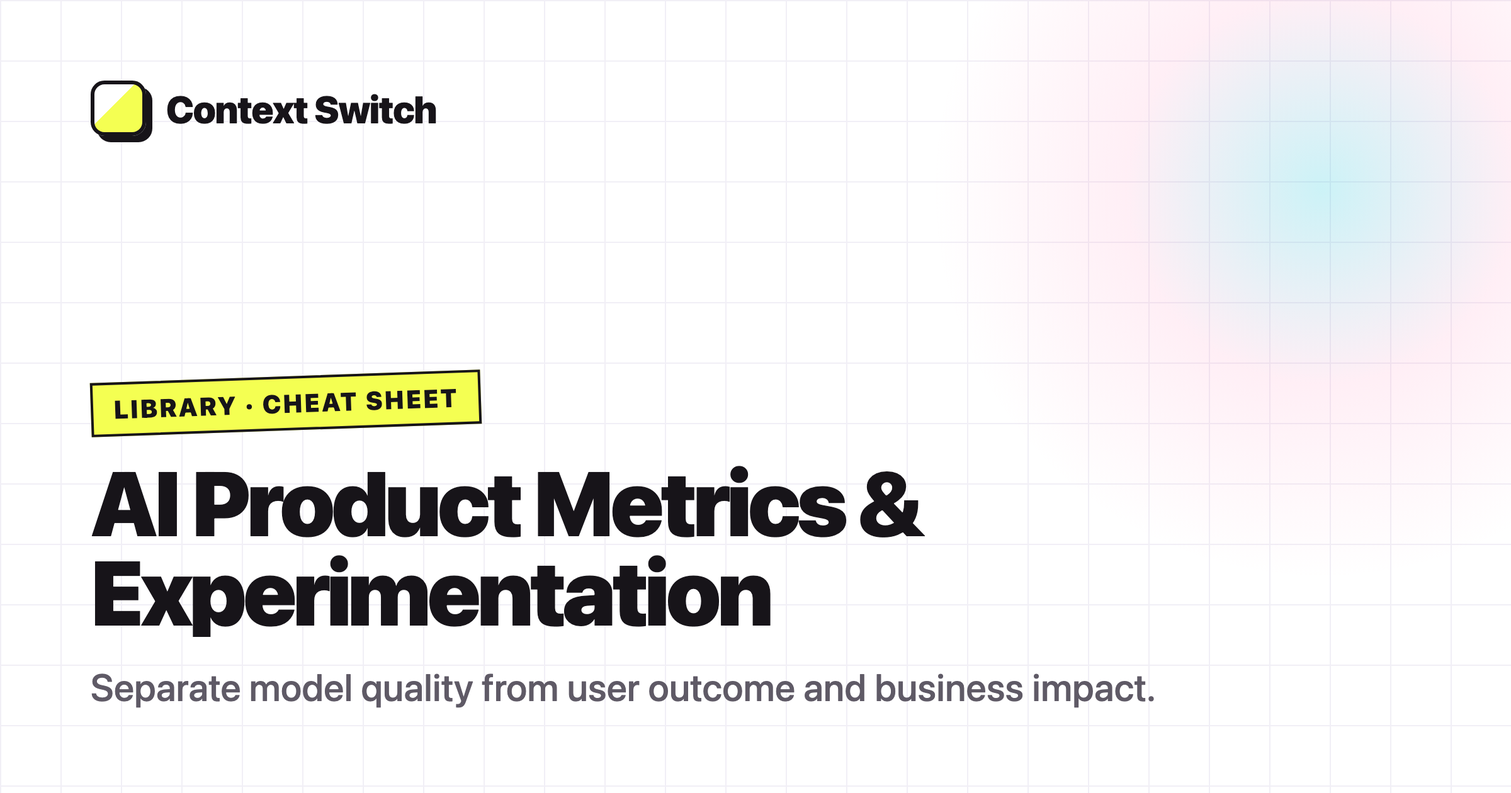
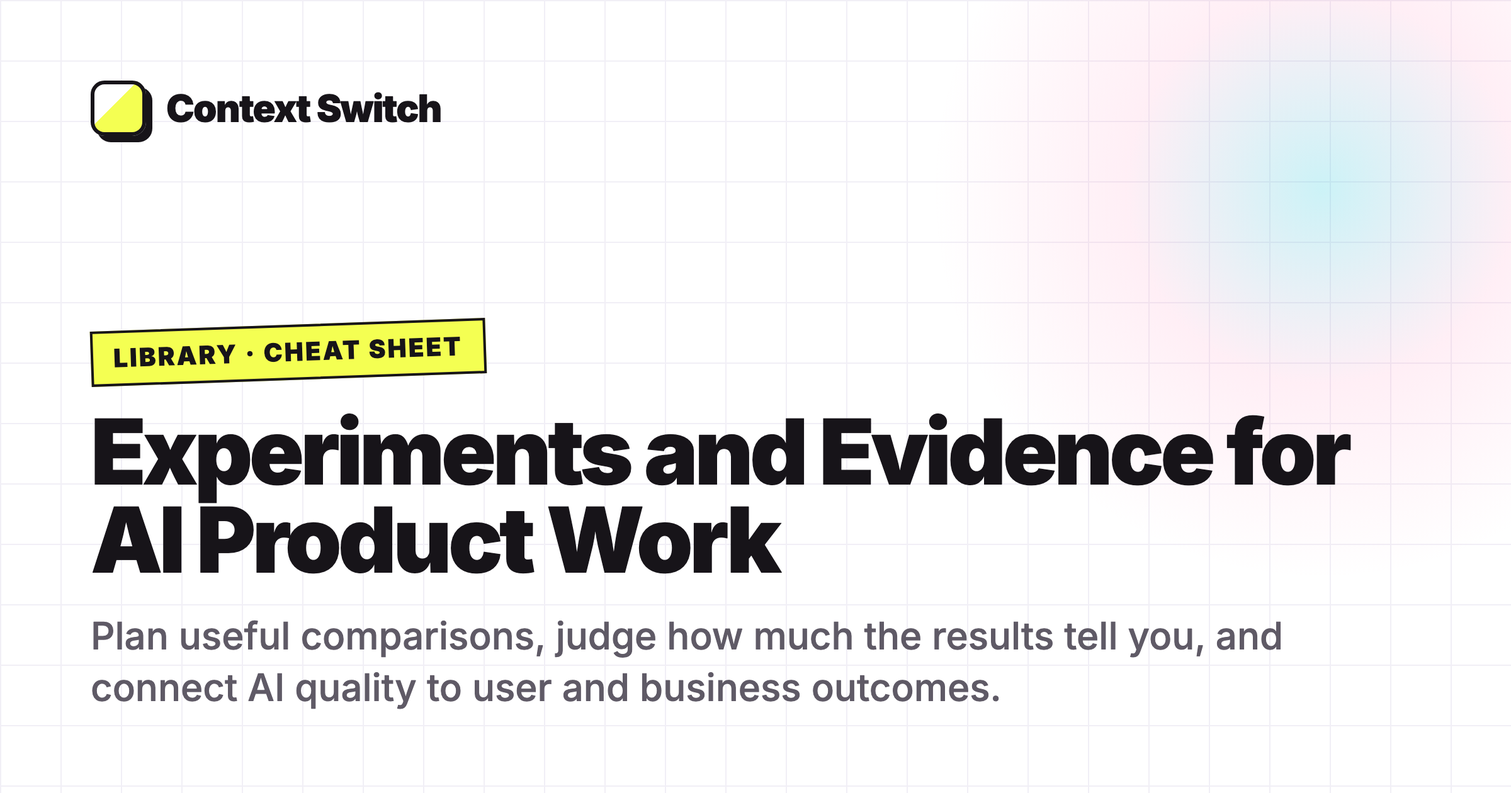
Library: Experiments and Evidence overview for section 08
Rewrite the metrics/experimentation reference as a six-question overview
(learn, measure, compare, interpret, AI evals, decide) with compact tables,
keeping the business case and quality x value matrix under a collapsed
Going deeper area. Section 08 topic line and label updated; AI Product Evals
links to the AI evals section; stale link titles fixed in the playbook and
Durable Knowledge. Same URL.

Changed region(s): [[0.0625, 0.4024, 0.9062, 0.8976], [0.125, 0.1238, 0.3125, 0.1548]]

diff --git a/cheat-sheets/ai-product-metrics-experimentation.html b/cheat-sheets/ai-product-metrics-experimentation.html
@@ -1,32 +1,66 @@
 <!DOCTYPE html>
-<html lang="en"><head><meta charset="utf-8"/><meta content="width=device-width,initial-scale=1" name="viewport"/><title>AI Product Metrics &amp; Experimentation · Context Switch</title><style>
+<html lang="en"><head><meta charset="utf-8"/><meta content="width=device-width,initial-scale=1" name="viewport"/><title>Experiments and Evidence for AI Product Work · Context Switch</title><style>
 :root{--ink:#15111a;--muted:#5f5968;--line:#e8e7ef;--pink:#f0408f;--cyan:#00bfd6;--violet:#6b5cff;--acid:#f4ff52}*{box-sizing:border-box}body{margin:0;background:white;color:var(--ink);font:14px/1.5 Inter,system-ui,Arial,sans-serif}.bar{border-bottom:1px solid var(--line);padding:18px max(26px,calc((100% - 1030px)/2));font-weight:900;font-size:17px;letter-spacing:-.03em}.bar i{display:inline-block;width:17px;height:17px;background:var(--acid);border:2px solid var(--ink);margin-right:10px;vertical-align:-3px;box-shadow:3px 3px var(--ink)}main{max-width:1030px;margin:auto;padding:25px 30px 45px}.tools{display:flex;justify-content:space-between;align-items:center;margin-bottom:27px;font-size:12px;font-weight:750}.tools a{color:inherit}.tools button{background:white;border:1px solid var(--ink);box-shadow:3px 3px 0 var(--acid);padding:9px 12px;font-weight:750;cursor:pointer}.label{display:inline-block;background:var(--acid);font-weight:900;font-size:10px;text-transform:uppercase;letter-spacing:.08em;padding:5px 10px;transform:rotate(-2deg);margin-bottom:12px}h1{font-size:clamp(37px,5.8vw,63px);letter-spacing:-.042em;line-height:1.08;margin:0 0 12px;font-weight:950}.pink{color:var(--pink)}.purple{color:var(--violet)}.intro{color:var(--muted);font-size:17px;max-width:740px}.hero{border-bottom:2px solid var(--ink);padding-bottom:16px}.lead{border-left:4px solid var(--violet);background:#f8f7ff;padding:11px 14px;margin:15px 0}section{margin-top:25px;padding-top:24px;border-top:1px solid var(--line)}section.first{border:0;margin-top:0;padding-top:12px}.kicker{font-size:10px;font-weight:900;letter-spacing:.1em;color:var(--muted);text-transform:uppercase;margin:0 0 6px}h2{font-size:24px;line-height:1.18;letter-spacing:-.045em;margin:0 0 11px;font-weight:900}.flow{max-width:750px}.step{display:flex;gap:13px;padding:12px 14px;border:1px solid var(--line);border-left:4px solid var(--violet)}.step:nth-of-type(4n+1){border-left-color:var(--pink)}.number{display:grid;place-items:center;background:var(--acid);font-weight:900;width:27px;height:27px;flex:0 0 27px}.step strong{display:block}.step small{color:var(--muted);font-size:13px;display:block;margin-top:3px}.arrow{height:14px;border-left:2px solid var(--ink);margin-left:28px}.note{border-left:4px solid var(--cyan);background:#f6fcff;padding:11px 14px;margin:15px 0}.table-wrap{overflow-x:auto}table{border-collapse:collapse;width:100%;font-size:13px}thead{border-top:2px solid var(--ink);background:#f8f7ff}td,th{padding:10px 12px;border-bottom:1px solid var(--line);text-align:left;vertical-align:top}th{font-size:10px;letter-spacing:.07em;text-transform:uppercase}td:first-child{font-weight:850;white-space:nowrap}tr:nth-child(even){background:#fcfcff}.twocol{display:grid;grid-template-columns:1fr 1fr;gap:13px}.twocol article{border:1px solid var(--line);border-top:4px solid var(--pink);padding:13px}.twocol article+article{border-top-color:var(--cyan)}.twocol strong{display:block;margin-bottom:4px}footer{margin-top:23px;border-top:2px solid var(--ink);padding-top:11px;color:var(--muted);font-size:12px}footer a{font-weight:700;color:inherit}p{margin:0 0 9px}@media(max-width:680px){main{padding:20px}.bar{padding:14px 20px}h1{font-size:clamp(34px,9vw,51px)}.twocol{grid-template-columns:1fr}}
 @media print{@page{size:letter;margin:.44in .52in}html,body{font-size:9.3pt;line-height:1.31;-webkit-print-color-adjust:exact;print-color-adjust:exact}.bar,.tools{display:none!important}main{padding:0;max-width:100%;margin:0}.hero{padding:0 0 10px}h1{font-size:27pt;line-height:1.08;margin-bottom:6px}.intro{font-size:10pt}.label{font-size:8pt;padding:3px 6px;margin-bottom:6px;transform:none}.lead{margin:8px 0;padding:7px 10px}section{margin-top:11px;padding-top:10px}section.first{padding-top:6px}h2{font-size:14pt;margin-bottom:7px}.kicker{margin-bottom:3px}.step{padding:6px 9px;break-inside:avoid}.step small{font-size:8.6pt;margin-top:2px}.number{width:21px;height:21px;flex-basis:21px}.arrow{height:8px;margin-left:21px}.note{padding:7px 10px;margin:8px 0;break-inside:avoid}table{font-size:8.6pt;line-height:1.26}td,th{padding:5px 8px}thead{display:table-header-group}tr{break-inside:avoid}.evaluation{break-before:page;margin-top:0;padding-top:0;border-top:0}h2,.kicker{break-after:avoid}.table-wrap{overflow:visible}.twocol{gap:8px}.twocol article{padding:8px;break-inside:avoid}footer{margin-top:11px;padding-top:7px}p{orphans:2;widows:2}}
 
-.cards{display:grid;grid-template-columns:repeat(2,minmax(0,1fr));gap:12px}.card{border:1px solid var(--line);border-top:4px solid var(--violet);padding:12px 14px}.card:nth-child(3n+2){border-top-color:var(--pink)}.card:nth-child(3n){border-top-color:var(--cyan)}.card h3{font-size:14px;line-height:1.24;margin:0 0 5px}.card p{margin:0;font-size:13px}.chips{display:flex;gap:9px;flex-wrap:wrap}.chip{border:1px solid var(--line);padding:7px 10px;font-weight:800;font-size:12px}.list{padding-left:20px;margin:9px 0}.list li{margin:0 0 7px}.pair{display:grid;grid-template-columns:1fr 1fr;gap:14px}.pair>*{min-width:0}.flowbox{display:flex;gap:7px;align-items:stretch;flex-wrap:wrap}.flowbox span{background:#f8f7ff;border-left:3px solid var(--violet);padding:10px 12px;flex:1 1 115px;font-size:13px;font-weight:750}.source{font-size:11px;color:var(--muted)}@media(max-width:680px){.cards,.pair{grid-template-columns:1fr}}@media print{.cards,.pair{gap:7px}.card{padding:7px 9px;break-inside:avoid}.card h3{font-size:10pt}.card p{font-size:9pt}.list li{margin-bottom:4px}.flowbox span{padding:6px 9px;break-inside:avoid}.source{font-size:8pt}section{break-inside:auto}.hero{break-inside:avoid}.cards{grid-template-columns:repeat(2,minmax(0,1fr))}}</style><style id="restored-additions">@media(max-width:680px){td:first-child,.restored td:first-child{white-space:normal;min-width:0}td,th{padding-left:8px;padding-right:8px}}.label a{color:inherit;text-decoration:none}.reviewed{display:inline-block;margin-left:10px;font-size:11px;font-weight:750;color:var(--muted)}footer a{color:inherit;font-weight:750}.restored{break-inside:auto}.restored h3{font-size:15px;letter-spacing:-.018em;margin:18px 0 9px}.restored strong{font-weight:850}.restored .note{margin:11px 0}.restored td{overflow-wrap:anywhere}.restored td:first-child{white-space:normal;min-width:116px}.restored table{table-layout:auto}.restored thead{display:table-header-group}@media print{.restored{break-inside:auto;page-break-inside:auto}.restored h2,.restored h3,.restored .kicker{break-after:avoid;page-break-after:avoid}.restored .table-wrap{overflow:visible}.restored tr,.restored .note{break-inside:avoid;page-break-inside:avoid}.restored td,.restored th{padding:6px 8px}.restored .note{padding:8px 11px}.restored h3{margin:12px 0 7px;font-size:11pt}.restored{margin-top:19px;padding-top:16px}}</style><style id="decision-practice-additions">.decision-practice h2{margin-bottom:12px}.decision-practice p{max-width:870px}.decision-practice .table-wrap{overflow-x:auto}.decision-practice table{width:100%;border-collapse:collapse}.decision-practice td,.decision-practice th{white-space:normal!important;overflow-wrap:anywhere}.decision-practice td:first-child{min-width:0!important}.decision-practice .flowbox{margin-bottom:12px}@media print{.decision-practice{break-inside:auto}.decision-practice h2{break-after:avoid;page-break-after:avoid}.decision-practice tr,.decision-practice .card,.decision-practice .note{break-inside:avoid;page-break-inside:avoid}.decision-practice td,.decision-practice th{padding:5px 7px}.decision-practice .cards{grid-template-columns:repeat(2,minmax(0,1fr))}}</style><link href="../favicon.svg" rel="icon" type="image/svg+xml">
+.cards{display:grid;grid-template-columns:repeat(2,minmax(0,1fr));gap:12px}.card{border:1px solid var(--line);border-top:4px solid var(--violet);padding:12px 14px}.card:nth-child(3n+2){border-top-color:var(--pink)}.card:nth-child(3n){border-top-color:var(--cyan)}.card h3{font-size:14px;line-height:1.24;margin:0 0 5px}.card p{margin:0;font-size:13px}.chips{display:flex;gap:9px;flex-wrap:wrap}.chip{border:1px solid var(--line);padding:7px 10px;font-weight:800;font-size:12px}.list{padding-left:20px;margin:9px 0}.list li{margin:0 0 7px}.pair{display:grid;grid-template-columns:1fr 1fr;gap:14px}.pair>*{min-width:0}.flowbox{display:flex;gap:7px;align-items:stretch;flex-wrap:wrap}.flowbox span{background:#f8f7ff;border-left:3px solid var(--violet);padding:10px 12px;flex:1 1 115px;font-size:13px;font-weight:750}.source{font-size:11px;color:var(--muted)}@media(max-width:680px){.cards,.pair{grid-template-columns:1fr}}@media print{.cards,.pair{gap:7px}.card{padding:7px 9px;break-inside:avoid}.card h3{font-size:10pt}.card p{font-size:9pt}.list li{margin-bottom:4px}.flowbox span{padding:6px 9px;break-inside:avoid}.source{font-size:8pt}section{break-inside:auto}.hero{break-inside:avoid}.cards{grid-template-columns:repeat(2,minmax(0,1fr))}}</style><style id="restored-additions">@media(max-width:680px){td:first-child,.restored td:first-child{white-space:normal;min-width:0}td,th{padding-left:8px;padding-right:8px}}.label a{color:inherit;text-decoration:none}.reviewed{display:inline-block;margin-left:10px;font-size:11px;font-weight:750;color:var(--muted)}footer a{color:inherit;font-weight:750}.restored{break-inside:auto}.restored h3{font-size:15px;letter-spacing:-.018em;margin:18px 0 9px}.restored strong{font-weight:850}.restored .note{margin:11px 0}.restored td{overflow-wrap:anywhere}.restored td:first-child{white-space:normal;min-width:116px}.restored table{table-layout:auto}.restored thead{display:table-header-group}@media print{.restored{break-inside:auto;page-break-inside:auto}.restored h2,.restored h3,.restored .kicker{break-after:avoid;page-break-after:avoid}.restored .table-wrap{overflow:visible}.restored tr,.restored .note{break-inside:avoid;page-break-inside:avoid}.restored td,.restored th{padding:6px 8px}.restored .note{padding:8px 11px}.restored h3{margin:12px 0 7px;font-size:11pt}.restored{margin-top:19px;padding-top:16px}}</style><style id="decision-practice-additions">.decision-practice h2{margin-bottom:12px}.decision-practice p{max-width:870px}.decision-practice .table-wrap{overflow-x:auto}.decision-practice table{width:100%;border-collapse:collapse}.decision-practice td,.decision-practice th{white-space:normal!important;overflow-wrap:anywhere}.decision-practice td:first-child{min-width:0!important}.decision-practice .flowbox{margin-bottom:12px}@media print{.decision-practice{break-inside:auto}.decision-practice h2{break-after:avoid;page-break-after:avoid}.decision-practice tr,.decision-practice .card,.decision-practice .note{break-inside:avoid;page-break-inside:avoid}.decision-practice td,.decision-practice th{padding:5px 7px}.decision-practice .cards{grid-template-columns:repeat(2,minmax(0,1fr))}}</style><style id="experiments-overview">.jump{display:flex;flex-wrap:wrap;gap:7px;margin-top:16px}.jump a{border:1px solid var(--line);padding:6px 10px;font-weight:800;font-size:12px;color:inherit;text-decoration:none}.jump a:hover,.jump a:focus-visible{border-color:var(--ink)}main section[id]{scroll-margin-top:16px}section .note p{margin:0 0 6px}section .note p:last-child{margin:0}section>p{max-width:820px}.deeper details{border:1px solid var(--line);border-left:4px solid var(--violet);margin:0 0 10px}.deeper details:nth-of-type(2){border-left-color:var(--pink)}.deeper details:nth-of-type(3){border-left-color:var(--cyan)}.deeper summary{cursor:pointer;padding:12px 14px;font-weight:900;font-size:15px;letter-spacing:-.018em}.deeper summary:focus-visible{outline:2px solid var(--violet);outline-offset:2px}.deeper-body{padding:0 14px 12px}.deeper td{overflow-wrap:break-word!important}.deeper td:first-child{min-width:92px!important;white-space:normal}@media(max-width:680px){.deeper td:first-child{min-width:70px!important}}#further-reading a{color:inherit;font-weight:750}@media print{.jump{display:none}.deeper details{border:0;margin:0 0 8px}.deeper summary{padding:0 0 5px;font-size:11pt;list-style:none;break-after:avoid}.deeper summary::-webkit-details-marker{display:none}.deeper-body{padding:0}}</style><link href="../favicon.svg" rel="icon" type="image/svg+xml">
 <!-- social-preview:begin -->
-<meta content="Separate model quality from user outcome and business impact." name="description"/>
+<meta content="Plan useful comparisons, judge how much the results tell you, and connect AI quality to user and business outcomes." name="description"/>
 <meta content="website" property="og:type"/>
 <meta content="https://www.contextswitch.tech/cheat-sheets/ai-product-metrics-experimentation" property="og:url"/>
-<meta content="AI Product Metrics &amp; Experimentation · Context Switch" property="og:title"/>
-<meta content="Separate model quality from user outcome and business impact." property="og:description"/>
+<meta content="Experiments and Evidence for AI Product Work · Context Switch" property="og:title"/>
+<meta content="Plan useful comparisons, judge how much the results tell you, and connect AI quality to user and business outcomes." property="og:description"/>
 <meta content="https://www.contextswitch.tech/assets/social/cheat-sheets/ai-product-metrics-experimentation.png?v=2" property="og:image"/>
 <meta content="2400" property="og:image:width"/>
 <meta content="1260" property="og:image:height"/>
-<meta content="AI Product Metrics &amp; Experimentation · Context Switch" property="og:image:alt"/>
+<meta content="Experiments and Evidence for AI Product Work · Context Switch" property="og:image:alt"/>
 <meta content="summary_large_image" name="twitter:card"/>
-<meta content="AI Product Metrics &amp; Experimentation · Context Switch" name="twitter:title"/>
-<meta content="Separate model quality from user outcome and business impact." name="twitter:description"/>
+<meta content="Experiments and Evidence for AI Product Work · Context Switch" name="twitter:title"/>
+<meta content="Plan useful comparisons, judge how much the results tell you, and connect AI quality to user and business outcomes." name="twitter:description"/>
 <meta content="https://www.contextswitch.tech/assets/social/cheat-sheets/ai-product-metrics-experimentation.png?v=2" name="twitter:image"/>
-<meta content="AI Product Metrics &amp; Experimentation · Context Switch" name="twitter:image:alt"/>
+<meta content="Experiments and Evidence for AI Product Work · Context Switch" name="twitter:image:alt"/>
 <!-- social-preview:end -->
-</head><body><div class="bar"><i></i>Context Switch</div><main><div class="tools"><a href="../index.html#learn">← All references</a><button onclick="window.print()">Print / Save PDF</button></div><div class="hero"><div class="label"><a href="../index.html#learn">Library</a> / 08 Product Analytics, Measurement &amp; Business Value</div><span class="reviewed">Reviewed Oct 2026</span><h1>AI Product Metrics &amp; Experimentation</h1><p class="intro">Separate model quality from user outcome and business impact.</p></div><section class="first"><div class="kicker">01 / table</div><h2>Three levels of measurement</h2><div class="table-wrap"><table><thead><tr><th>Level</th><th>Question</th><th>Examples</th></tr></thead><tbody><tr><td>AI quality</td><td>Did the system behave correctly?</td><td>Task success, groundedness, severe failures</td></tr><tr><td>User outcome</td><td>Did it make the job easier?</td><td>Resolution time, correction effort, completion</td></tr><tr><td>Business outcome</td><td>Did it create net value?</td><td>Cost per resolved case, capacity, avoided rework</td></tr></tbody></table></div></section><section class=""><div class="kicker">02 / cards</div><h2>Metric distinctions</h2><div class="cards"><article class="card"><h3>Primary vs guardrail</h3><p>A main goal plus cost, latency, severe failures and review burden.</p></article><article class="card"><h3>Leading vs lagging</h3><p>Early use signals versus later outcomes.</p></article><article class="card"><h3>Rate vs count</h3><p>Always name the denominator and time window.</p></article><article class="card"><h3>Segments</h3><p>Task complexity, source coverage, risk and user group.</p></article></div></section><section class=""><div class="kicker">03 / table</div><h2>Evidence methods</h2><div class="table-wrap"><table><thead><tr><th>Method</th><th>Strength / caution</th></tr></thead><tbody><tr><td>A/B test</td><td>Randomized, but watch assignment and spillover</td></tr><tr><td>Holdout</td><td>Compare outcomes against a continuing baseline</td></tr><tr><td>Before / after</td><td>Useful, but confounded by seasonal and task shifts</td></tr><tr><td>Qualitative</td><td>Explains mechanisms; not causal proof alone</td></tr></tbody></table></div></section><section class=""><div class="kicker">04 / note</div><h2>Worked example</h2><div class="lead">90% acceptable support drafts do not prove value. Compare resolution, corrections, customer satisfaction, escalation and all-in cost to baseline.</div></section><section class=""><div class="kicker">05 / list</div><h2>Ask before claiming impact</h2><ul class="list"><li>What is the baseline and denominator?</li><li>What change counts as meaningful?</li><li>Which severe outcome must not trade for speed?</li><li>What else could explain the same movement?</li></ul></section><section aria-label="When a quality score misleads" class="restored"><div class="kicker">GOING DEEPER</div><h2>When a quality score misleads</h2>
-<div class="note"><strong>90% drafts, no proven value:</strong> A support assistant produces 90% acceptable drafts. Compare assisted and baseline cases on actual resolution, total agent effort including corrections, escalation, customer satisfaction and cost per case. If resolution is unchanged and correction time rises, the quality score has not established business value.</div>
-<h3>Causal evidence cautions</h3><div class="table-wrap"><table><thead><tr><th>Method</th><th>Guardrail</th></tr></thead><tbody>
-<tr><td>A/B test</td><td>Randomize eligible users or tasks; inspect assignment, contamination/spillover, sample size and measurement</td></tr>
-<tr><td>Holdout</td><td>Maintain a representative baseline to estimate incremental impact</td></tr>
-<tr><td>Before vs after</td><td>Allow for seasonality, case-mix changes and other concurrent interventions</td></tr>
-<tr><td>Qualitative interviews</td><td>Explain mechanism and frustration, but not causal magnitude on their own</td></tr>
+</head><body><div class="bar"><i></i>Context Switch</div><main><div class="tools"><a href="../index.html#learn">← All references</a><button onclick="window.print()">Print / Save PDF</button></div><div class="hero"><div class="label"><a href="../index.html#learn">Library</a> / 08 Product Analytics, Measurement &amp; Business Value</div><span class="reviewed">Reviewed Nov 2026</span><h1>Experiments and Evidence for AI Product Work</h1><p class="intro">Plan useful comparisons, judge how much the results tell you, and connect AI quality to user and business outcomes.</p><nav class="jump" aria-label="On this page"><a href="#learn">1 What are we learning?</a><a href="#measure">2 Right measure?</a><a href="#compare">3 Right comparison?</a><a href="#convincing">4 How convincing?</a><a href="#ai-evals">5 AI evals</a><a href="#decide">6 What decision?</a><a href="#deeper">Going deeper</a></nav></div>
+<section class="first" id="learn"><div class="kicker">01 / Plan</div><h2>What are we trying to learn?</h2>
+<p>Start with the decision the result will inform. Then write a testable hypothesis and name the baseline: the current workflow, a simpler non-AI approach, or the existing model configuration. Decide what size of improvement would be worth acting on <strong>before</strong> you see results. Otherwise any movement can be read as success.</p>
+<div class="note"><p><strong>Example (hypothetical, State):</strong> “Does the revised answer presentation help people distinguish accepted facts from pending proposals?” The decision is whether to keep the new presentation; the baseline is the current one.</p><p><strong>Mistake to avoid:</strong> Testing several changes together, then assuming you know which one caused the result.</p></div></section>
+<section id="measure"><div class="kicker">02 / Measure</div><h2>Are we measuring the right thing?</h2>
+<p>Keep three levels separate. A gain at one level does not prove a gain at the next.</p>
+<div class="table-wrap"><table><thead><tr><th>Level</th><th>Question</th><th>Examples</th></tr></thead><tbody><tr><td>AI quality</td><td>Did the system behave correctly?</td><td>Task success, groundedness, severe failures</td></tr><tr><td>User outcome</td><td>Did it make the job easier?</td><td>Time to complete, correction effort, completion</td></tr><tr><td>Business outcome</td><td>Did it create net value?</td><td>Cost per resolved case, useful capacity, avoided rework</td></tr></tbody></table></div>
+<p>Define each metric before the test: numerator, denominator, who is eligible, what is excluded, and the time window. Choose one primary outcome and a few guardrails that must not get worse, such as severe failures, correction effort, cost and latency. Look at the distribution, segments (task complexity, risk, user group) and tasks people abandoned, not only the average: a better mean can hide a worse tail.</p>
+<div class="note"><p><strong>Example:</strong> “Acceptable drafts” measures output quality. Total time to complete the work, including review and correction, measures a different outcome.</p><p><strong>Mistake to avoid:</strong> Treating more clicks, generated outputs or saved items as proof of value. Activity can rise for bad reasons too.</p></div></section>
+<section id="compare"><div class="kicker">03 / Compare</div><h2>Does the comparison support the claim?</h2>
+<p>Who and what you test limits what you can conclude. <strong>Random sampling</strong> concerns who enters the study, so it governs how far results generalize. <strong>Random assignment</strong> concerns which condition each person or task receives, so it governs whether a difference can be attributed to the change.</p>
+<div class="table-wrap"><table><thead><tr><th>Method</th><th>What it can support</th><th>Watch for</th></tr></thead><tbody>
+<tr><td>Randomized A/B test</td><td>A causal estimate for the population tested, when well designed</td><td>Assignment errors, spillover between groups, too few units</td></tr>
+<tr><td>Holdout</td><td>Incremental impact against a continuing baseline</td><td>Keeping the holdout representative and untouched</td></tr>
+<tr><td>Before / after</td><td>A first signal when randomizing isn’t practical</td><td>Seasonality, changing task difficulty, growing user experience, other changes shipped at the same time</td></tr>
+<tr><td>Interviews, usability studies</td><td>Why something works or fails: problems and mechanisms</td><td>Not causal magnitude on their own</td></tr>
 </tbody></table></div>
-<div class="note"><strong>Metric definition:</strong> Always document baseline, denominator, eligibility, exclusions, segment, window, main success measure and guardrails. Watch severe failures, review burden, cost, latency and accessibility so faster output does not conceal worse outcomes.</div>
-</section><section class="decision-practice"><div class="kicker">PRACTICAL FRAMEWORK / AI PRODUCT WORK</div><h2>Quality × value: decide what earns investment</h2><p>Use separate evidence for AI task quality and real workflow value. The matrix is a <strong>decision aid</strong>, not permission to waive safety, privacy or compliance requirements.</p><div class="table-wrap"><table><thead><tr><th>AI quality</th><th>Product value</th><th>Likely next decision</th></tr></thead><tbody><tr><td>Strong</td><td>Strong</td><td>Expand carefully; monitor quality, cost and adoption by segment.</td></tr><tr><td>Weak</td><td>Strong</td><td>Fix quality and constrain exposure; block launch or expansion for critical failures.</td></tr><tr><td>Strong</td><td>Weak</td><td>Revisit the job, workflow fit, discovery and adoption rather than optimizing eval scores.</td></tr><tr><td>Weak</td><td>Weak</td><td>Stop or fundamentally redesign the proposed feature.</td></tr></tbody></table></div><div class="note"><strong>Non-negotiable:</strong> Strong usage never excuses critical safety failures; strong evals never prove a feature is needed.</div></section><section class="decision-practice"><div class="kicker">PRACTICAL FRAMEWORK / BUSINESS CASE</div><h2>Is it worth it? A simple AI business case</h2><p>Start from what the problem costs today, not from what the model can do. Every number below is an <strong>assumption until measured</strong>: label it as one, and keep the case simple enough that someone can check it.</p><div class="table-wrap"><table><thead><tr><th>Line</th><th>What to estimate</th><th>Watch for</th></tr></thead><tbody><tr><td>Baseline pain</td><td>Volume × time per case × loaded cost, plus the cost of errors and rework in today's workflow.</td><td>Without a reliable baseline, the value case stays provisional. Measure it before claiming an improvement or committing to a major rollout.</td></tr><tr><td>Value</td><td>Time saved that becomes useful capacity, errors avoided, faster cycle time, revenue or retention effects.</td><td>Time saved creates capacity, not automatic savings. Count it when it shows up as more completed work, avoided overtime or hiring, better service or less rework, and keep those gains separate from cash savings.</td></tr><tr><td>Run cost</td><td>Model and API, retrieval and infrastructure, priced <strong>per successful outcome</strong>.</td><td>Retries, failures and long inputs; the cost per call understates it.</td></tr><tr><td>Hidden cost</td><td>Human review, exception handling, evals and monitoring, upkeep as models and prompts change.</td><td>Review burden often erases the headline saving.</td></tr><tr><td>Risk</td><td>Impact × likelihood of a wrong answer or action, compliance exposure, loss of trust.</td><td>One critical failure can outweigh a year of savings.</td></tr></tbody></table></div><div class="flowbox"><span>Net value / month = value − run cost − hidden cost</span><span>Payback = build cost ÷ net value per month</span><span>Compare with the simplest alternative: rules, automation or a process change</span></div><div class="note"><strong>Make the recommendation falsifiable:</strong> state the decision (build, limited pilot, buy, or don't), the two or three assumptions it is most sensitive to, and the evidence that would change it. To find them, ask what must happen operationally for the productivity gain to become business value: faster drafts, then faster resolution, then more cases without added staff, then a smaller backlog. Each link is an assumption to test. A case that cannot be wrong cannot guide a decision.</div></section><footer><a href="../index.html#learn">Back to Library →</a></footer></main></body></html>
+<div class="note"><p><strong>Example (hypothetical, Tastemake):</strong> Enthusiastic early adopters who opted into a new feature may rate recommendations higher than people who never chose to use it, whatever the feature itself does.</p><p><strong>Mistake to avoid:</strong> Assuming a large sample fixes selection bias or missing outcomes. More data from a skewed group gives a more precise answer to the wrong question.</p></div></section>
+<section id="convincing"><div class="kicker">04 / Interpret</div><h2>How convincing is the difference?</h2>
+<p>Read three things together: how big the change is, how uncertain that estimate is, and whether a change that size matters in practice.</p>
+<div class="table-wrap"><table><thead><tr><th>Term</th><th>Plain meaning</th><th>It does not mean</th></tr></thead><tbody>
+<tr><td>Effect size</td><td>How much the outcome changed, such as 4 percentage points or 2 minutes per task</td><td>That the change is worth its cost</td></tr>
+<tr><td>Confidence interval</td><td>A range of effects consistent with the data: sampling uncertainty under the analysis assumptions</td><td>Protection against bias, poor measurement or a skewed sample</td></tr>
+<tr><td>p-value and statistical significance</td><td>How unusual results at least this extreme would be if there were no real difference; “significant” means below a threshold chosen in advance</td><td>The probability the hypothesis is true, or proof the effect is important or causal</td></tr>
+<tr><td>Power</td><td>The probability of detecting a specified real effect under the planned design</td><td>A guarantee for effects smaller than the one specified</td></tr>
+<tr><td>Minimum detectable effect</td><td>The effect the test is designed to detect at its chosen power</td><td>A universal sample size: the right size depends on variability, the effect that matters and the design</td></tr>
+</tbody></table></div>
+<div class="note"><p><strong>Example:</strong> A small improvement can be statistically significant with enough data, yet too small to justify the additional cost.</p><p><strong>Mistake to avoid:</strong> Reading “not statistically significant” as “the options are equivalent.” Often the test simply could not tell. Likewise, zero observed failures does not establish zero risk: 0 failures in 30 cases is still consistent with a real failure rate as high as about 10%.</p></div></section>
+<section id="ai-evals"><div class="kicker">05 / AI evals</div><h2>What changes for AI evaluations?</h2>
+<p>When comparing configurations (model, prompt, retrieval), run them on the same cases where appropriate and keep the pairing: compare case by case and inspect which cases improved and which regressed, not just the two totals.</p>
+<p>Different scenarios test <strong>coverage</strong>; repeated trials of one scenario test <strong>consistency</strong>. Report unique cases separately from the number of runs. Check the grader as well: does it apply a valid rubric? Inspect where it disagrees with human judgment, especially severe false passes. Agreement with human grading and probability calibration (whether a stated 80% confidence is right about 80% of the time) are different properties. After tuning, confirm on fresh held-out cases you did not tune on.</p>
+<div class="note"><p><strong>Example:</strong> Two configurations both raise a pass rate from 80% to 84%. One fixes 4 cases and breaks none; the other fixes 12 and breaks 8, including a severe one. The totals match; the decisions should not.</p><p><strong>Mistake to avoid:</strong> Treating many outputs from a few underlying scenarios as independent evidence about many different tasks.</p></div></section>
+<section id="decide"><div class="kicker">06 / Decide</div><h2>What decision does the evidence justify?</h2>
+<p>Check the measurement pipeline before interpreting results. Missing events, exclusions applied differently to each group, assignment counts that don’t match the planned split, repeated significance checks that stop when a result appears, and searching many metrics for one that moved can all create misleading findings.</p>
+<p>Then connect the result to total workflow effort, useful capacity, operating cost, risk and remaining uncertainty. A reasonable next step may be a limited test, a revision, a careful expansion, or stopping.</p>
+<div class="note"><p><strong>Example:</strong> Faster drafting does not demonstrate labor savings if review takes all the saved time.</p><p><strong>Mistake to avoid:</strong> Choosing the most favorable metric after seeing the results and presenting it as the original success criterion.</p></div></section>
+<section class="deeper" id="deeper"><div class="kicker">GOING DEEPER</div><h2>Plans, value and the business case</h2>
+<details id="test-plan"><summary>A one-page plan before you test</summary><div class="deeper-body"><p>Write these down before collecting results, so the success criterion cannot drift afterwards.</p><ul class="list"><li><strong>Decision and hypothesis:</strong> what you will do differently depending on the result.</li><li><strong>Baseline:</strong> current workflow, simpler alternative or existing configuration.</li><li><strong>Primary metric:</strong> numerator, denominator, eligibility, exclusions, window.</li><li><strong>Guardrails:</strong> severe failures, review burden, cost, latency, accessibility.</li><li><strong>Worthwhile effect:</strong> the smallest change that would justify acting, and whether the planned test can detect it.</li><li><strong>Signals over time:</strong> leading signals (early use) versus lagging outcomes (resolution, retention, rework).</li><li><strong>Unit and assignment:</strong> users, accounts or tasks, and how each gets its condition.</li><li><strong>Other explanations:</strong> what else could produce the same movement.</li></ul></div></details>
+<details id="quality-value"><summary>Quality × value: decide what earns investment</summary><div class="deeper-body decision-practice"><p>Use separate evidence for AI task quality and real workflow value. The matrix is a <strong>decision aid</strong>, not permission to waive safety, privacy or compliance requirements.</p><div class="table-wrap"><table><thead><tr><th>AI quality</th><th>Product value</th><th>Likely next decision</th></tr></thead><tbody><tr><td>Strong</td><td>Strong</td><td>Expand carefully; monitor quality, cost and adoption by segment.</td></tr><tr><td>Weak</td><td>Strong</td><td>Fix quality and constrain exposure; block launch or expansion for critical failures.</td></tr><tr><td>Strong</td><td>Weak</td><td>Revisit the job, workflow fit, discovery and adoption rather than optimizing eval scores.</td></tr><tr><td>Weak</td><td>Weak</td><td>Stop or fundamentally redesign the proposed feature.</td></tr></tbody></table></div><div class="note"><strong>Strong quality, unproven value:</strong> A support assistant produces 90% acceptable drafts. Compare assisted and baseline cases on actual resolution, total agent effort including corrections, escalation, customer satisfaction and cost per case. If resolution is unchanged and correction time rises, the quality score has not established business value.</div><div class="note"><strong>Non-negotiable:</strong> Strong usage never excuses critical safety failures; strong evals never prove a feature is needed.</div></div></details>
+<details id="business-case"><summary>Is it worth it? A simple AI business case</summary><div class="deeper-body decision-practice"><p>Start from what the problem costs today, not from what the model can do. Every number below is an <strong>assumption until measured</strong>: label it as one, and keep the case simple enough that someone can check it.</p><div class="table-wrap"><table><thead><tr><th>Line</th><th>What to estimate</th><th>Watch for</th></tr></thead><tbody><tr><td>Baseline pain</td><td>Volume × time per case × loaded cost, plus the cost of errors and rework in today's workflow.</td><td>Without a reliable baseline, the value case stays provisional. Measure it before claiming an improvement or committing to a major rollout.</td></tr><tr><td>Value</td><td>Time saved that becomes useful capacity, errors avoided, faster cycle time, revenue or retention effects.</td><td>Time saved creates capacity, not automatic savings. Count it when it shows up as more completed work, avoided overtime or hiring, better service or less rework, and keep those gains separate from cash savings.</td></tr><tr><td>Run cost</td><td>Model and API, retrieval and infrastructure, priced <strong>per successful outcome</strong>.</td><td>Retries, failures and long inputs; the cost per call understates it.</td></tr><tr><td>Hidden cost</td><td>Human review, exception handling, evals and monitoring, upkeep as models and prompts change.</td><td>Review burden often erases the headline saving.</td></tr><tr><td>Risk</td><td>Impact × likelihood of a wrong answer or action, compliance exposure, loss of trust.</td><td>One critical failure can outweigh a year of savings.</td></tr></tbody></table></div><div class="flowbox"><span>Net value / month = value − run cost − hidden cost</span><span>Payback = build cost ÷ net value per month</span><span>Compare with the simplest alternative: rules, automation or a process change</span></div><div class="note"><strong>Make the recommendation falsifiable:</strong> state the decision (build, limited pilot, buy, or don't), the two or three assumptions it is most sensitive to, and the evidence that would change it. To find them, ask what must happen operationally for the productivity gain to become business value: faster drafts, then faster resolution, then more cases without added staff, then a smaller backlog. Each link is an assumption to test. A case that cannot be wrong cannot guide a decision.</div></div></details>
+</section>
+<section id="further-reading"><div class="kicker">SOURCES</div><h2>Further reading</h2><ul class="list"><li><a href="https://openintrostat.github.io/ims/" target="_blank" rel="noopener">OpenIntro, <em>Introduction to Modern Statistics</em></a>: a free textbook for sampling, study design, inference and effect sizes.</li><li><a href="https://www.amstat.org/asa/files/pdfs/P-ValueStatement.pdf" target="_blank" rel="noopener">American Statistical Association, statement on p-values</a>: what a p-value does and does not tell you.</li><li><a href="https://www.itl.nist.gov/div898/handbook/prc/section1/prc14.htm" target="_blank" rel="noopener">NIST/SEMATECH e-Handbook, confidence intervals</a>: how intervals are built and read.</li><li><a href="https://www.microsoft.com/en-us/research/articles/patterns-of-trustworthy-experimentation-pre-experiment-stage/" target="_blank" rel="noopener">Microsoft Research, patterns of trustworthy experimentation: pre-experiment stage</a>: metrics, power and planning before launch.</li><li><a href="https://www.anthropic.com/research/demystifying-evals-for-ai-agents" target="_blank" rel="noopener">Anthropic, demystifying evals for AI agents</a>: tasks, trials, graders and comparing agent configurations.</li></ul></section>
+<footer><a href="../index.html#learn">Back to Library →</a></footer></main>
+<script>(()=>{const opened=[];addEventListener('beforeprint',()=>{document.querySelectorAll('.deeper details:not([open])').forEach(d=>{d.open=true;opened.push(d)})});addEventListener('afterprint',()=>{opened.splice(0).forEach(d=>{d.open=false})})})();</script></body></html>

diff --git a/index.html b/index.html
@@ -839,8 +839,8 @@ body.v88-dark #ai-cs-mock{background:#171419!important;color:#f3ede8!important;-
 </details>
 
 <details class="learning-stage" id="measurement-business">
-<summary><span class="stage-num">08</span><span class="stage-main"><b>Product Analytics, Measurement &amp; Business Value</b><small>Understand how people use software, whether changes actually work, and what business value follows.</small><span class="topic-preview">success metrics · instrumentation · funnels/cohorts · experimentation · AI-assisted analysis · ROI</span></span></summary>
-<div class="stage-body"><div class="stage-group"><h3>Measurement use</h3><div class="learning-item"><p>I connect AI quality to normal product outcomes: useful metrics, instrumentation of the right behavior, checks on what users actually do, and verification of AI-assisted analysis before it drives decisions.</p><p><strong>Experimentation:</strong> An eval score says how the system performs on tested tasks, not whether it caused better outcomes. Define a baseline and primary outcome, compare groups or time periods carefully, and watch guardrails such as cost, latency, errors, and human review. A/B tests and holdouts help when practical; otherwise, state the uncertainty and possible confounders.</p><p class="seen-in">Seen in: <a href="project-health-case-study.html" target="_blank" rel="noopener noreferrer">Project Health</a></p></div></div><div class="resource-row"><a class="resource-link" href="cheat-sheets/ai-product-metrics-experimentation.html" target="_blank" rel="noopener noreferrer">AI product metrics &amp; experimentation</a></div></div>
+<summary><span class="stage-num">08</span><span class="stage-main"><b>Product Analytics, Measurement &amp; Business Value</b><small>Understand how people use software, whether changes actually work, and what business value follows.</small><span class="topic-preview">success metrics · instrumentation · funnels/cohorts · experiment design · uncertainty · AI-assisted analysis · ROI</span></span></summary>
+<div class="stage-body"><div class="stage-group"><h3>Measurement use</h3><div class="learning-item"><p>I connect AI quality to normal product outcomes: useful metrics, instrumentation of the right behavior, checks on what users actually do, and verification of AI-assisted analysis before it drives decisions.</p><p><strong>Experimentation:</strong> An eval score says how the system performs on tested tasks, not whether it caused better outcomes. Define a baseline and primary outcome, compare groups or time periods carefully, and watch guardrails such as cost, latency, errors, and human review. A/B tests and holdouts help when practical; otherwise, state the uncertainty and possible confounders.</p><p class="seen-in">Seen in: <a href="project-health-case-study.html" target="_blank" rel="noopener noreferrer">Project Health</a></p></div></div><div class="resource-row"><a class="resource-link" href="cheat-sheets/ai-product-metrics-experimentation.html" target="_blank" rel="noopener noreferrer">Metrics and experimentation</a></div></div>
 </details>
 
 <details class="learning-stage" id="ai-consulting-client-work">

diff --git a/ai-durable-knowledge.html b/ai-durable-knowledge.html
@@ -163,8 +163,8 @@ body.v88-dark{--ink:#f5f5f7;--muted:#b6b6c2;--border:#34343d;--soft:#19191f;--so
 <tr><th scope="row">Evidence & grounding</th><td><a href="cheat-sheets/enterprise-data-readiness-ai.html">Enterprise Data Readiness</a></td><td><a href="cheat-sheets/AI_Governance_Risk_PM_Cheat_Sheet.html">Governance & Risk</a></td></tr>
 <tr><th scope="row">Authority & autonomy</th><td><a href="cheat-sheets/Human_AI_Workflow_Design_Cheat_Sheet.html">Human–AI Workflow Design</a></td><td><a href="cheat-sheets/AI_Governance_Risk_PM_Cheat_Sheet.html">Governance & Risk</a></td></tr>
 <tr><th scope="row">Economics</th><td><a href="cheat-sheets/Efficient_AI_Use_for_Product_Work.html">Efficient AI Use</a></td><td><a href="cheat-sheets/evaluating-ai-vendors-platforms.html">Evaluating AI Vendors</a></td></tr>
-<tr><th scope="row">Quality & evals</th><td><a href="cheat-sheets/AI_Product_Evals_Cheat_Sheet.html">AI Product Evals</a></td><td><a href="cheat-sheets/ai-product-metrics-experimentation.html">Product Metrics & Experimentation</a></td></tr>
-<tr><th scope="row">People & adoption</th><td><a href="cheat-sheets/ai-pilot-to-production.html">Pilot to Production</a></td><td><a href="cheat-sheets/ai-product-metrics-experimentation.html">Product Metrics & Experimentation</a></td></tr>
+<tr><th scope="row">Quality & evals</th><td><a href="cheat-sheets/AI_Product_Evals_Cheat_Sheet.html">AI Product Evals</a></td><td><a href="cheat-sheets/ai-product-metrics-experimentation.html">Metrics and Experimentation</a></td></tr>
+<tr><th scope="row">People & adoption</th><td><a href="cheat-sheets/ai-pilot-to-production.html">Pilot to Production</a></td><td><a href="cheat-sheets/ai-product-metrics-experimentation.html">Metrics and Experimentation</a></td></tr>
 <tr><th scope="row">State & observability</th><td><a href="cheat-sheets/AI_Production_Reliability_and_Observability.html">Production Reliability</a></td><td><a href="cheat-sheets/Testing_and_Evaluating_AI_Systems.html">Testing & Evaluating AI Systems</a></td></tr></tbody></table></div></section>
 <section id="questions"><h2>Questions I keep coming back to</h2>
 <ol>

diff --git a/ai-power-user-playbook.html b/ai-power-user-playbook.html
@@ -237,7 +237,7 @@ Do not invent missing rules. List the questions that must be resolved before imp
 
 Propose the cheapest, fastest test that could show it is false: a manual trial, a sample review, a short interview, a spreadsheet prototype. Before we start, say what result would make us change course.</div></div>
 <p><strong>Example:</strong> The plan assumes most incoming requests are routine enough for a drafted reply. Before building anything, someone hand-labels 100 recent requests in an afternoon. If only 30 are routine, the plan changes before any engineering time is spent.</p>
-<p class="pb-more">Go deeper: <a href="cheat-sheets/ai-product-metrics-experimentation.html">AI Product Metrics &amp; Experimentation</a> covers making a business case falsifiable.</p>
+<p class="pb-more">Go deeper: <a href="cheat-sheets/ai-product-metrics-experimentation.html">Experiments and Evidence for AI Product Work</a> covers making a business case falsifiable.</p>
 </div></details>
 <details class="pb-entry" id="simpler-alternative" data-keywords="do we need ai, non-ai, rules, alternatives, overengineering, simpler solution, baseline, build vs buy">
 <summary><span class="pb-sum-main"><span class="pb-entry-title">Compare the AI option against a simpler one</span><span class="pb-entry-what">Makes an AI solution earn its place against rules, search, templates, or a process change.</span></span><span class="pb-type">Product principle</span></summary>

diff --git a/cheat-sheets/AI_Product_Evals_Cheat_Sheet.html b/cheat-sheets/AI_Product_Evals_Cheat_Sheet.html
@@ -25,7 +25,7 @@
 <tr><td>Medium</td><td>Misleading or wasteful; generally detectable before material harm</td></tr>
 <tr><td>High</td><td>Can materially distort product decisions or undermine trust</td></tr>
 <tr><td>Critical</td><td>Can directly cause unsafe, irreversible or externally consequential action; treat as a stop condition unless explicitly resolved</td></tr>
-</tbody></table></div></section><section aria-label="Boundary decisions and silent misses" class="restored"><div class="kicker">GOING DEEPER</div>
+</tbody></table></div><p class="seen-in">Comparing two configurations? Keep the same cases paired, count unique cases separately from repeated runs, and read the difference with its uncertainty: see <a href="ai-product-metrics-experimentation.html#ai-evals">Experiments and Evidence for AI Product Work →</a></p></section><section aria-label="Boundary decisions and silent misses" class="restored"><div class="kicker">GOING DEEPER</div>
 <h3>Decision-boundary regression cases</h3><div class="table-wrap"><table><thead><tr><th>Evidence</th><th>Expected behavior</th></tr></thead><tbody>
 <tr><td>Unknown value</td><td>Keep it unknown; never silently fill with zero</td></tr>
 <tr><td>Explicit 0</td><td>Use 0 only when the value is positively established</td></tr>
